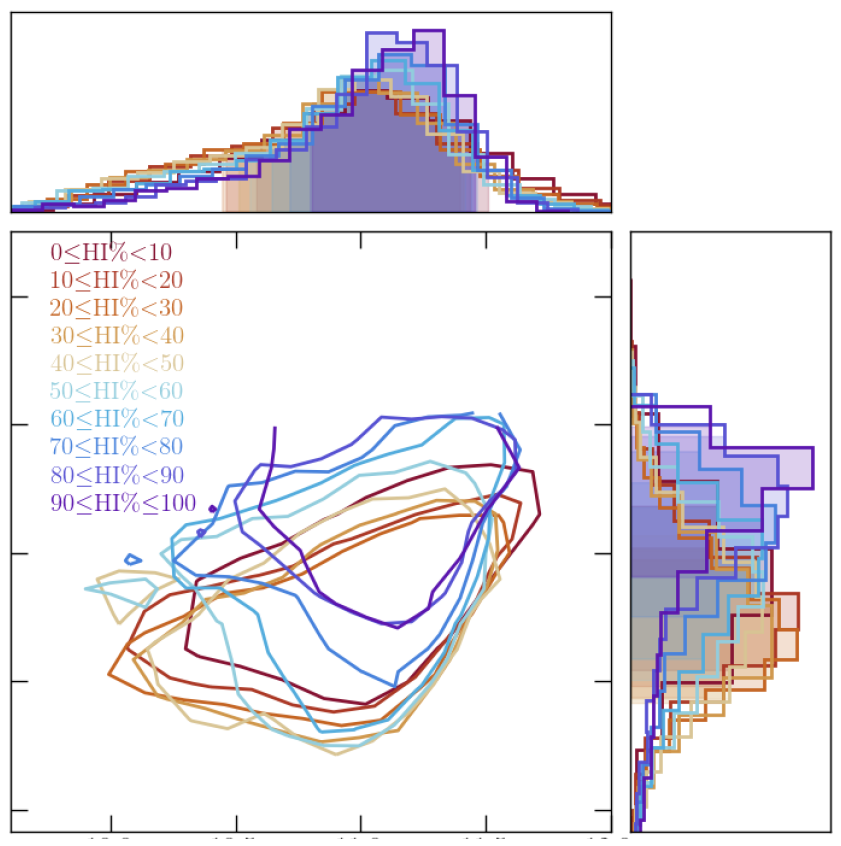
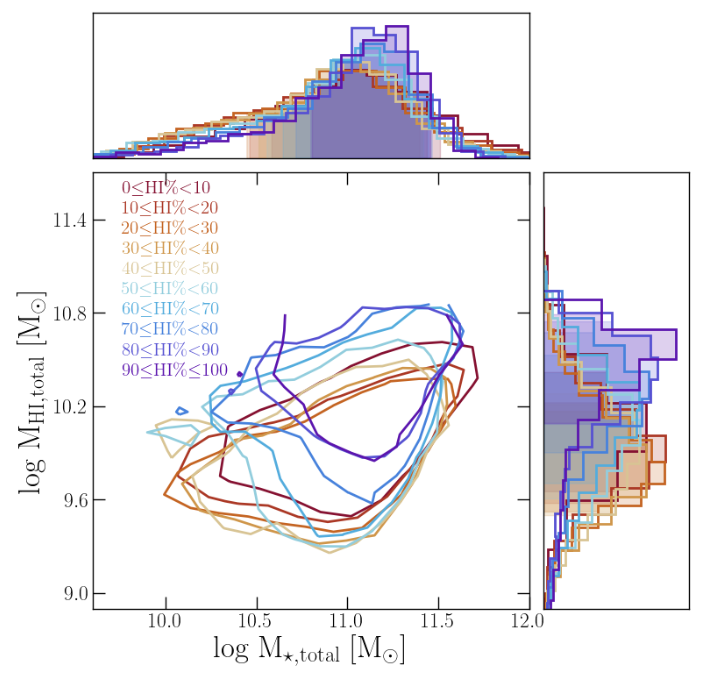
Cleaning Viz and research page

Changed region(s): [[0.0, 0.0, 0.9929, 1.0], [0.5896, 0.866, 0.6516, 0.9278], [0.1862, 0.8969, 0.2793, 0.9278]]

diff --git a/astro_visualisation.html b/astro_visualisation.html
@@ -41,8 +41,9 @@
 
 							<!-- Content -->
 								<section>
-									<header class="main">
-									<h2>Astrophysics</h2>
+									<header class="major">
+										<h2>Astrophysics</h2>
+									</header>
 
 									<ul>
 									<li>  Throughout PhD I spent a lot of time creating visualizations of the scientific data using <b>Python</b>, some are presented in <a href="research.html">Research</a> and here are some others: </a>
@@ -51,36 +52,24 @@
 
 
 								<!-- Image -->
-								<h3></h3>
+								<h2>HI in simulated central galaxies</h2>
 								<b>Figure below:</b><p1> The solid lines show the running median. The colour (red--yellow--purple) of the median lines show samples of central galaxies. The numbers at the bottom show the number of centrals in each bin for each median line as indicated in the right bottom corner. The hexagons in the background show the 2D density distribution of haloes. Obtained using Dark Sage semi-analytic model and MultiDark simulation. </p1>
 								<span class="image fit"><img src="images/Sim_viz.png" alt="" /></span>
 
-								<b>Figure below:</b><p1> The HI emission in the HIPASSJ0258-74 group. The HI emission is shown by the contours overlaid on the optical DSS B-band image. The lowest shown HI column density 3x10<sup>19</sup> cm<sup>-2</sup>.The other HI column density contours are: 8, 16, 32 and 64, 75 and 90x10<sup>19</sup> cm<sup>-2</sup>. The S3 galaxy is shown as shaded contours (between 3 and 6x10<sup>19</sup> cm<sup>-2</sup>) to enhance its visibility. The S4 galaxy is not detected in HI. \textbf{Right:} The velocity field of the J0258-74 group in the limit from 4500 to 5100 km s<sup>-1</sup>. The group members are marked (S1-S4) as well as the lowest HI column density (3x10<sup>19</sup> cm<sup>-2</sup>). The dashed line show the position of the S3 galaxy to enhance its visibility. The synthesized beam is shown in the bottom left corner, and the scale bar in the bottom right corner shows 50 kpc at the group distance (Dzudzar et al. submitted). </p1>
+								<h2>HI intensity distribution and HI velocity field</h2>
+								<b>Figure below:</b><p1> The HI emission in the HIPASSJ0258-74 group. The HI emission is shown by the contours overlaid on the optical DSS B-band image. The lowest shown HI column density 3x10<sup>19</sup> cm<sup>-2</sup>.The other HI column density contours are: 8, 16, 32 and 64, 75 and 90x10<sup>19</sup> cm<sup>-2</sup>. The S3 galaxy is shown as shaded contours (between 3 and 6x10<sup>19</sup> cm<sup>-2</sup>) to enhance its visibility. The S4 galaxy is not detected in HI. <b>Right:</b> The velocity field of the J0258-74 group in the limit from 4500 to 5100 km s<sup>-1</sup>. The group members are marked (S1-S4) as well as the lowest HI column density (3x10<sup>19</sup> cm<sup>-2</sup>). The dashed line show the position of the S3 galaxy to enhance its visibility. The synthesized beam is shown in the bottom left corner, and the scale bar in the bottom right corner shows 50 kpc at the group distance (Dzudzar et al. submitted). </p1>
 								<span class="image fit"><img src="images/J0258-74.png" alt="" /></span>
+ 								</p1>
 
-								
- </p1>
+ 								<h2>1σ of the distribution of haloes based on the H i that is within the central galaxy</h2>
+								<b>Figure below:</b><p1> Total halo HI mass versus total halo stellar mass for Dark Sage haloes with occupancy N≥3 and their 1σ distributions based on the amount of the HI in central galaxy. Each solid line shows 1σ distribution of a sample of haloes with the central galaxy containing from 0 to 100%, in steps of ∼10%, of the total HI mass. </p1>
+								<span class="col-4"><img src="images/HI_in_central_cont.png" alt="" /></span>
 											
-								<h3>Various examples:</h3>
-											<div class="box alt">
-												<div class="row gtr-50 gtr-uniform">
-															<!-- Break -->
 
-													<div class="col-4"><span class="image fit"><img src="images/HI_in_central_cont.png" alt="" /></span></div>
-
-															<!-- Break -->
-													<div class="col-4"><span class="image fit"><img src="images/Animated_two_sided.gif" alt="" /></span></div>
-													<div class="col-4"><span class="image fit"><img src="images/Anime_Contour.gif" alt="" /></span></div>
-													<div class="col-4"><span class="image fit"><img src="images/Joy_plot_groups_of_size_3.png" alt="" /></span></div>
-													<div class="col-4"><span class="image fit"><img src="images/Galaxy_model.png" alt="" /></span></div>
-														</div>
-													</div>
-
-									<header class="main">
-										<h2>Other:</h2>
-									</header>
-
-									Coming soon
+ 								<h2>Channel map of ESO156-G029</h2>
+								<b>Figure below:</b><p1> Channel map of ESO156-G029 in steps of 25 km s−1. The blue and red contours show HI emission (from observed and modelled galaxy). The white cross shows the stellar centre of ESO156-G029 galaxy. </p1>
+								<br></br>
+								<span class="col-4"><img src="images/Galaxy_model.png" alt="" /></span>
 								
 									</p>
 

diff --git a/research.html b/research.html
@@ -51,7 +51,7 @@
 										I was Principal Investigator (PI) in several research projects which led to publications in the international peer-review journal Monthly Notices of the Royal Astronomical Society <a href="https://ui.adsabs.harvard.edu/search/q=dzudzar&sort=date%20desc%2C%20bibcode%20desc&p_=0" target="_blank">(MNRAS).</a>
 										</p>
 
-									<header class="main">
+									<header class="major">
 										<h2>PhD Thesis: "The evolution of galaxies in the HI-rich group environment"</h2>
 									</header>
 
@@ -64,11 +64,13 @@
 
 									</p>
 
-									<hr class="major" />
 
-									<h2>First author publications:</h2>
+									<header class="major">
+										<h2>First author publications:</h2>
+									</header>
 
-									<h2> The neutral hydrogen properties of galaxies in gas-rich groups </h2>
+									 <h2> <i class="fa fa-file" aria-hidden="true"></i>
+ The neutral hydrogen properties of galaxies in gas-rich groups </h2>
 									<b>Paper access:</b> <a href="https://arxiv.org/abs/1812.08302" target="_blank">Dzudzar et al. 2019a</a>
 									<br>
 
@@ -82,7 +84,8 @@
 
 									<hr class="major" />
 
-									<h2>Group pre-processing versus cluster ram-pressure stripping: the case of ESO156-G029</h2>
+									<h2><i class="fa fa-file" aria-hidden="true"></i>
+ Group pre-processing versus cluster ram-pressure stripping: the case of ESO156-G029</h2>
 									<p>
 									<b>Paper access:</b> <a href="https://arxiv.org/abs/1909.01509" target="_blank">Dzudzar et al. 2019b</a>
 									<br>
@@ -100,7 +103,8 @@
 
 									<hr class="major" />
 
-									<h2>Environmental processing of galaxies in H I-rich groups</h2>
+									<h2><i class="fa fa-file" aria-hidden="true"></i>
+ Environmental processing of galaxies in H I-rich groups</h2>
 
 									<b>Paper access:</b> <a href="https://arxiv.org/abs/2011.01438" target="_blank">Dzudzar et al. 2021</a>
 									<br>
@@ -123,8 +127,10 @@
 
 
 
-									<hr class="major" />
-									<h2>Galaxies in simulations </h2>
+									<header class="major">
+										<h2>Galaxies in simulations </h2>
+									</header>
+									
 
 									I used the Dark Sage semi-analytic model and explored at what mass scale the transition from HI-dominant to HI non-dominant central galaxies occur. I define an HI-dominant central galaxy to be one that contains more than 60% of the total HI within the halo (halo is associated with the observable term for group or cluster). (Figure taken from my PhD Thesis)
 
